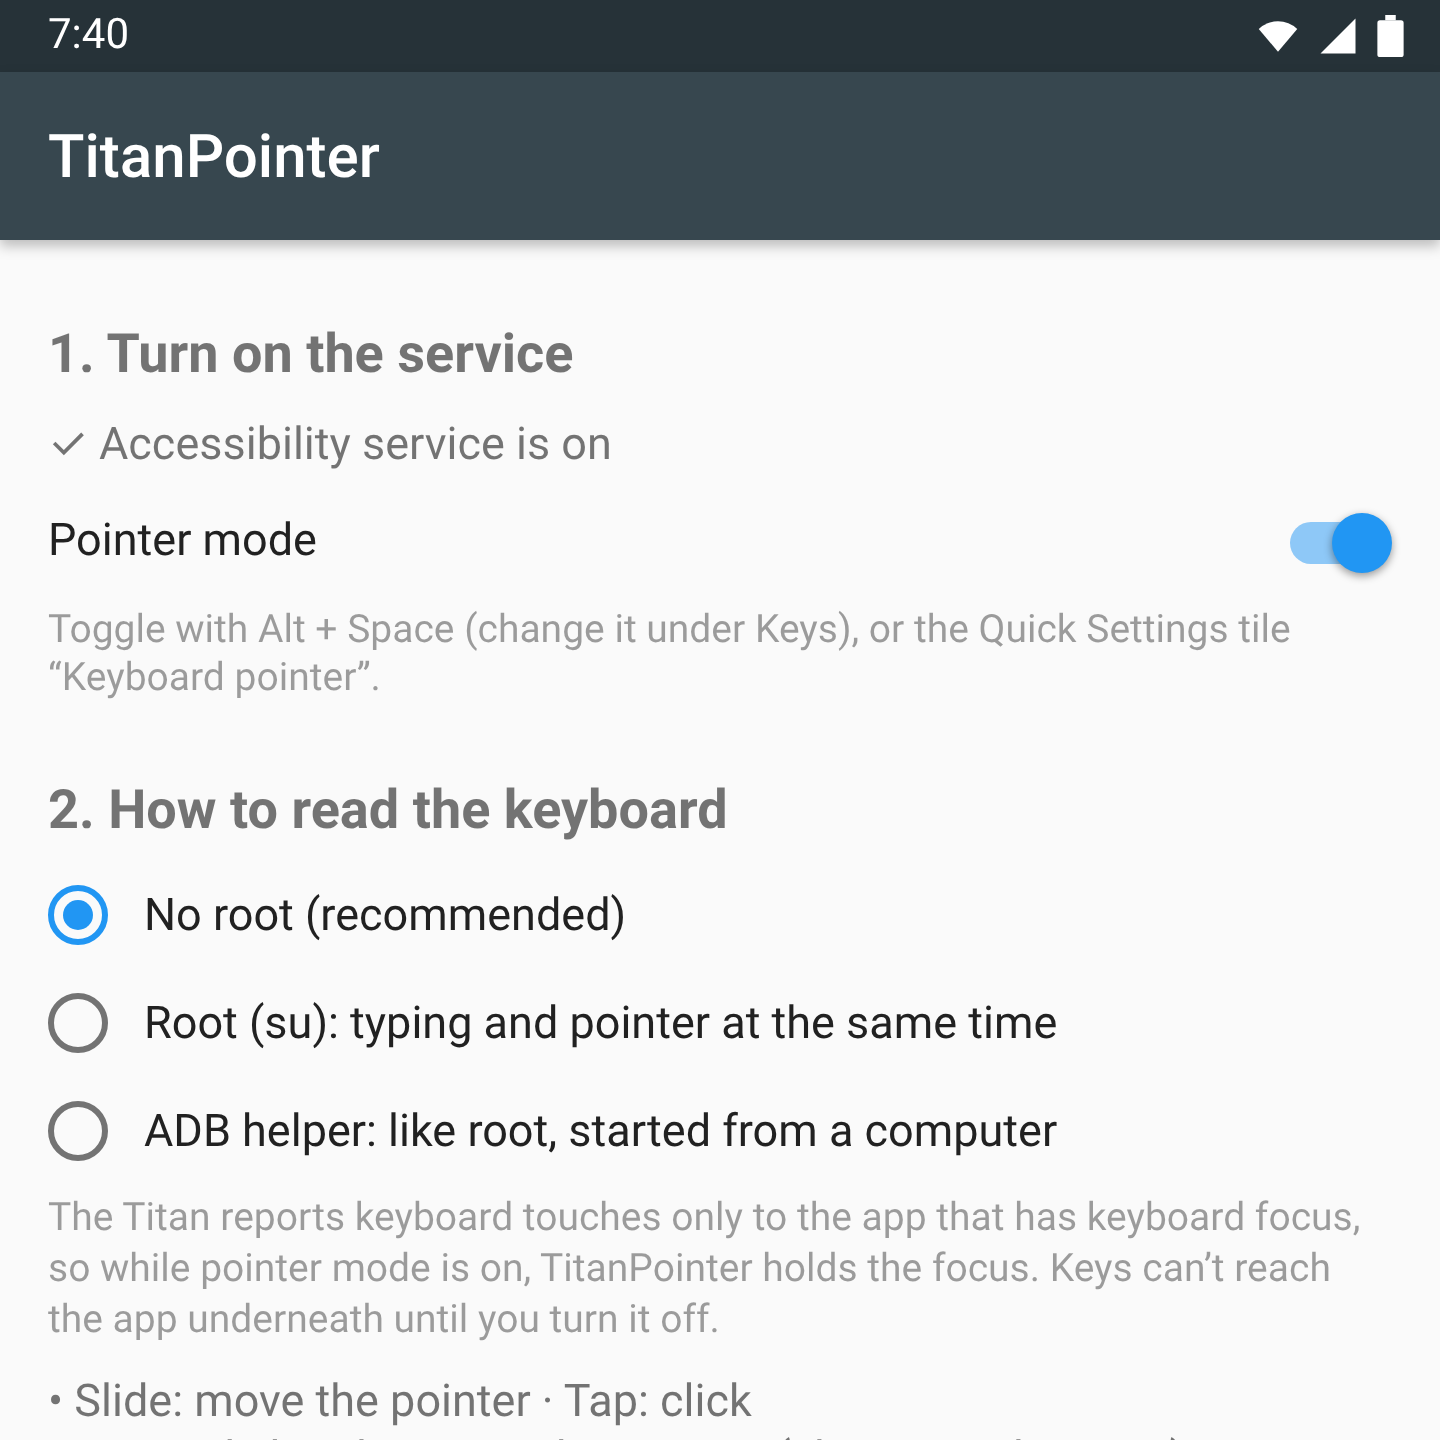
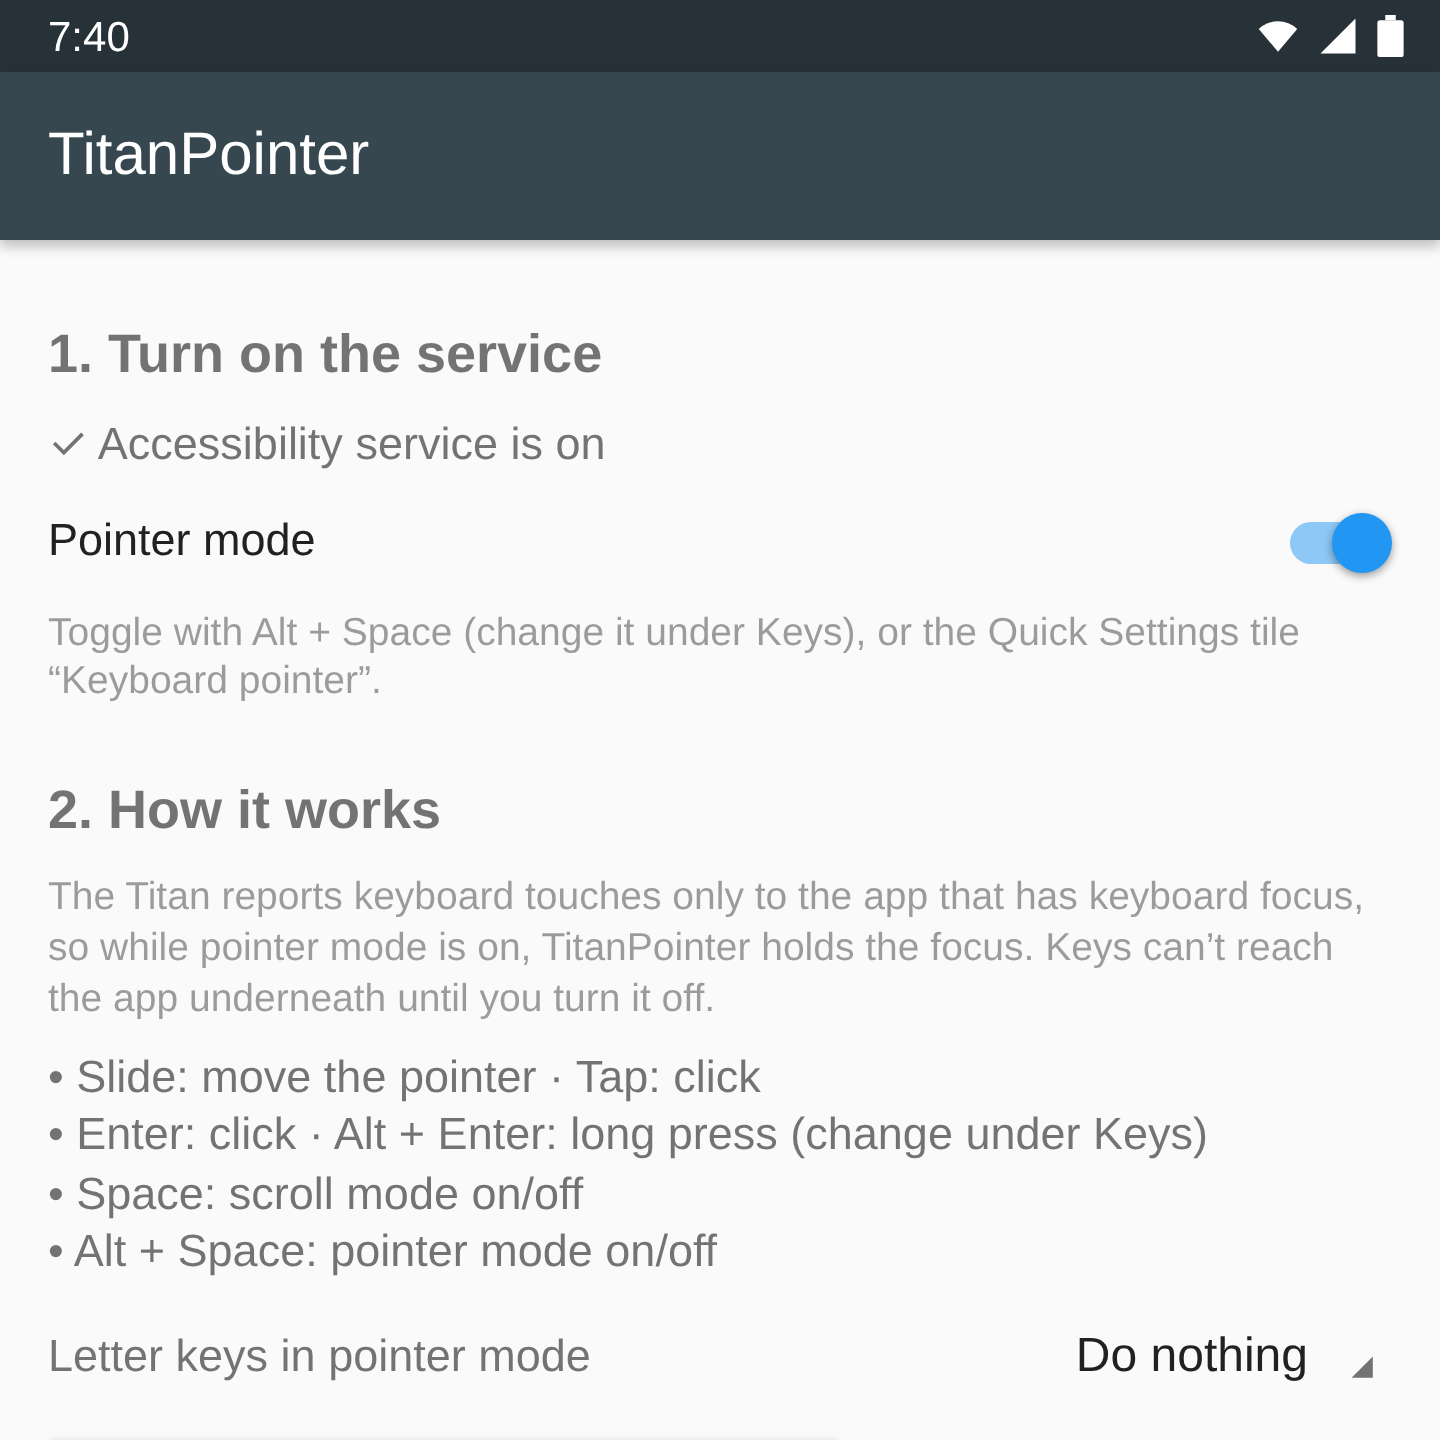
README: 1.22 install link, fling, known tap limitation, diagnostics and Advanced sections, updated screenshots
Claude-Session: https://claude.ai/code/session_011prJR6BrLPTCyVdMjAbx8g

diff --git a/docs/screenshots/settings.html b/docs/screenshots/settings.html
@@ -69,7 +69,7 @@
   <div class="scroll" id="scroll"><div class="content" id="content"></div></div>
 </div>
 <script>
-  // Mirrors MainActivity.build() (no-root mode: the root/ADB box and sections 3-4 are hidden).
+  // Mirrors MainActivity.build() as of 1.22 (no-root mode; Advanced and Diagnostics collapsed).
   const c = document.getElementById('content');
   const add = (html) => c.insertAdjacentHTML('beforeend', html);
   const section = (t) => add(`<div class="section">${t}</div>`);
@@ -91,10 +91,7 @@
   sw('Pointer mode', true);
   hint('Toggle with Alt + Space (change it under Keys), or the Quick Settings tile “Keyboard pointer”.');
 
-  section('2. How to read the keyboard');
-  radio('No root (recommended)', true);
-  radio('Root (su): typing and pointer at the same time', false);
-  radio('ADB helper: like root, started from a computer', false);
+  section('2. How it works');
   hint('The Titan reports keyboard touches only to the app that has keyboard focus, so while pointer mode is on, TitanPointer holds the focus. Keys can’t reach the app underneath until you turn it off.');
   text('• Slide: move the pointer · Tap: click\n• Enter: click · Alt + Enter: long press (change under Keys)\n• Space: scroll mode on/off\n• Alt + Space: pointer mode on/off');
   spinner('Letter keys in pointer mode', 'Do nothing');
@@ -123,6 +120,8 @@
   hint('In scroll mode, slides scroll and taps never click.');
   seek('Scroll speed', 2, 60, 15, x);
   sw('Reverse scroll direction', false);
+  sw('Fling: a quick flick keeps scrolling', true);
+  hint('Flick and lift while still moving to keep scrolling; stop before lifting to stop dead.');
 
   section('Keys');
   keyBinding('Pointer mode on/off', 'Alt + Space');
@@ -134,14 +133,8 @@
   section('Gestures');
   text('• Slide: move the pointer\n• Tap: click (tap)\n• Tap twice: double tap\n• Tap, then touch again and move: drag\n• Space, then slide: scroll\n• Typing is ignored automatically');
 
-  section('Diagnostics');
-  hint('What the pointer saw recently: focus changes, which windows opened, keys and where they came from. If the pointer stops working somewhere, reproduce it, come back here and copy this.');
-  add(`<div class="mono">00:03:41.111  pointer mode ON (no root)
-00:03:41.120  keyboard app hidden for pointer mode: ok
-00:03:41.133  focus window added
-00:03:41.176  focus window HAS keyboard focus
-00:03:41.465  touchpad event reached the focus window</div>`);
-  add(`<div class="row">${button('Copy')}${button('Clear')}</div>`);
+  section('▸ Advanced: root / ADB (untested)');
+  section('▸ Diagnostics');
 </script>
 </body>
 </html>

diff --git a/README.md b/README.md
@@ -7,12 +7,12 @@ touchpad with an on-screen mouse pointer. No root needed.
 > directed and tested by a human on a real Titan. Review it before you trust it with anything important.
 
 <p>
-  <img src="docs/images/settings-1.png" width="32%" alt="Settings: service status, pointer mode switch, no-root mode">
+  <img src="docs/images/settings-1.png" width="32%" alt="Settings: service status, pointer mode switch, how it works">
   <img src="docs/images/settings-2.png" width="32%" alt="Settings: pointer speed, acceleration, size">
   <img src="docs/images/settings-3.png" width="32%" alt="Settings: click, long-press and toggle keys">
 </p>
 
-<sub>The settings screen at the Titan's 1440 × 1440 resolution, with default settings. These are renderings of
+<sub>The settings screen (1.22) at the Titan's 1440 × 1440 resolution, with default settings. These are renderings of
 the app's layout (<code>docs/screenshots/</code>, made with <code>node docs/screenshots/render.js</code>), not
 captures from a phone.</sub>
 
@@ -25,6 +25,7 @@ captures from a phone.</sub>
 | Tap twice | Double tap |
 | Tap, then touch again and slide | Drag (press, hold and move at the pointer) |
 | Space, then slide | Scroll mode: slides scroll, taps never click |
+| Space, then flick | Fling: the page keeps scrolling and slows down (setting) |
 
 | Key (while pointer mode is on) | Action |
 |---|---|
@@ -44,13 +45,32 @@ captures from a phone.</sub>
 
 Hardware details (keyboard layout, sensor range, key codes): [docs/titan-hardware.md](docs/titan-hardware.md).
 
+## Known limitation: keyboard taps can't click standard Android buttons
+
+On the Titan, a tap on the keyboard surface doesn't click classic Android buttons and toolbars, including
+the address bars and toolbar buttons of Firefox and Chrome. **Use the click key (Enter) for those.** It
+works everywhere. Keyboard taps work on web pages and in apps built with Jetpack Compose.
+
+This is the Titan's own software, not TitanPointer. Its keyboard scrolling feature (the scroll assistant,
+which TitanPointer needs left on) sets the system property `debug.sf.forcescroll_view` to `yes` whenever the
+keyboard surface is touched, and only a real key press sets it back to `no`. While it's `yes`, the Titan's
+modified `View.onTouchEvent` refuses taps on standard views, so that keyboard scrolling doesn't press
+buttons. You can see it without TitanPointer: scroll a page in Firefox with the keyboard, then tap the
+address bar with your finger.
+
+Apps can't inject key presses or change `debug.*` properties, so this can't be fixed without root. An ADB
+shell could reset the property before each click; that isn't implemented. The full investigation is in
+[CLAUDE.md](CLAUDE.md).
+
 ## Install
 
-1. Install [`dist/TitanPointer-1.7.apk`](dist/TitanPointer-1.7.apk).
+1. Install [`dist/TitanPointer-1.22.apk`](dist/TitanPointer-1.22.apk).
 2. Open **TitanPointer** and turn on its accessibility service (Settings → Accessibility → TitanPointer).
    It draws the pointer, sends taps and swipes at the pointer, and reads key presses for the shortcuts.
    Nothing is collected or sent anywhere.
-3. Press **Alt + Space** and slide on the keyboard.
+3. Keep the Titan's keyboard scrolling (scroll assistant) turned on: without it the keyboard touches don't
+   reach TitanPointer.
+4. Press **Alt + Space** and slide on the keyboard.
 
 The app shows a minimal, silent notification while the service runs. It keeps Android from stopping the
 service when you swipe the app away; you can hide it in the notification settings.
@@ -67,8 +87,11 @@ turn it off (Alt + Space) to type. While pointer mode is on, the keyboard app (e
 is hidden and the text field loses focus, because otherwise the keyboard app receives the keyboard touches
 instead. Both are restored when you turn pointer mode off.
 
-If the pointer stops working somewhere, the **Diagnostics** section at the bottom of the app logs focus
-changes, windows and keys, and can be copied.
+If the pointer stops working somewhere, open the **Diagnostics** section at the bottom of the app
+(collapsed, and off by default), turn on **Capture diagnostics**, reproduce the problem and copy the log. It
+records focus changes, windows, keys and every click: where it went, what was under the pointer and what
+the app did with it. The section also has a tap test screen and a search of the phone's own software that
+were used to track down the limitation above.
 
 ## Root and ADB modes (untested)
 
@@ -76,7 +99,8 @@ changes, windows and keys, and can be copied.
 > typing with the pointer on at the same time.
 
 A small native helper ([`native/titanpad.c`](native/titanpad.c)) reads the sensor's `/dev/input/eventN`
-device directly, so keys keep working while the pointer is on. It needs either:
+device directly, so keys keep working while the pointer is on. Choose it in the collapsed **Advanced: root /
+ADB (untested)** section at the bottom of the app. It needs either:
 
 - **Root (Magisk):** choose *Root* in the app and approve the su prompt.
 - **ADB:** choose *ADB helper*, enable USB debugging, and after every reboot run the command shown in the
@@ -92,7 +116,7 @@ Requirements: JDK 17+, the Android SDK (platform 34), and `aarch64-linux-gnu-gcc
 helper).
 
 ```sh
-./gradlew testDebugUnitTest  # gesture engine unit tests
+./gradlew testDebugUnitTest  # gesture engine and diagnostics unit tests
 ./gradlew assembleRelease    # app/build/outputs/apk/release/app-release.apk
 native/build.sh              # rebuild the helper into app/src/main/jniLibs/arm64-v8a/libtitanpad.so
 ```
@@ -108,6 +132,8 @@ app/src/main/java/com/titanpointer/
   GestureEngine      single-finger touchpad gestures (unit tested)
   GestureInjector    taps, long presses and continued strokes via dispatchGesture()
   MainActivity       setup and settings screen
-  Diag               in-app diagnostics log
+  Diag               in-app diagnostics log (off by default)
+  ClickTrace         per-click diagnostics: timing, what's under the pointer, the app's response
+  TapTestActivity, StateProbe, FrameworkScan   tools used to find the Titan's tap block
   PadLink, TouchTracker, native/titanpad.c   root/ADB path (untested)
 ```
